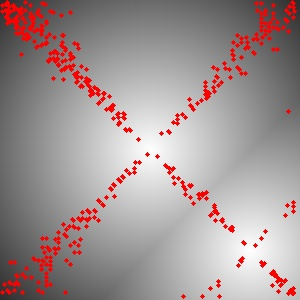
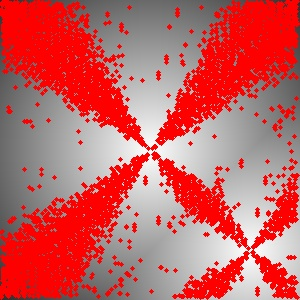
Enabled lambdas with 0 value

diff --git a/main.py b/main.py
@@ -139,7 +139,7 @@ def main():
     path = "./IMGS/"
 
     enableZeroG = False;
-    includeNulLambda = False;
+    includeNulLambda = True;
 
     imglist = ["generated.jpg"]
     #imglist.append("gray_binary_fingerprint.jpg")
